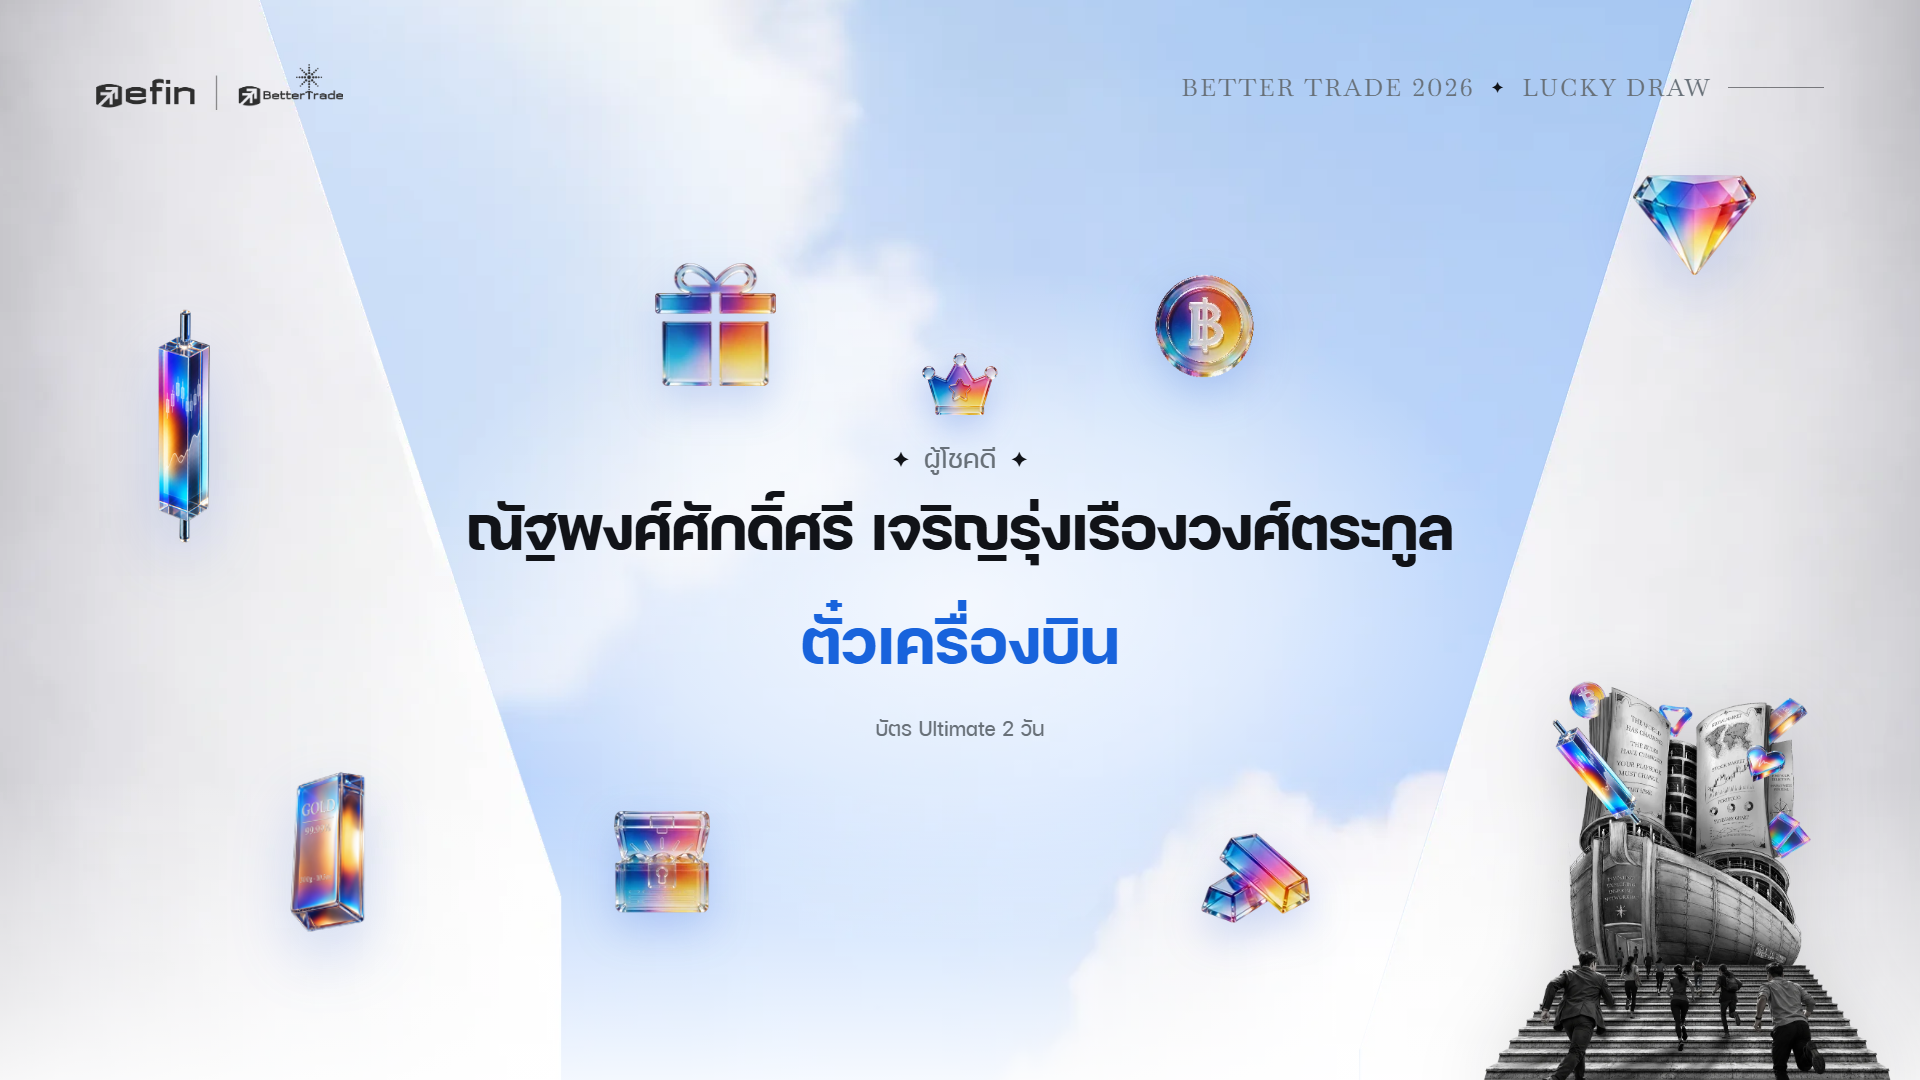
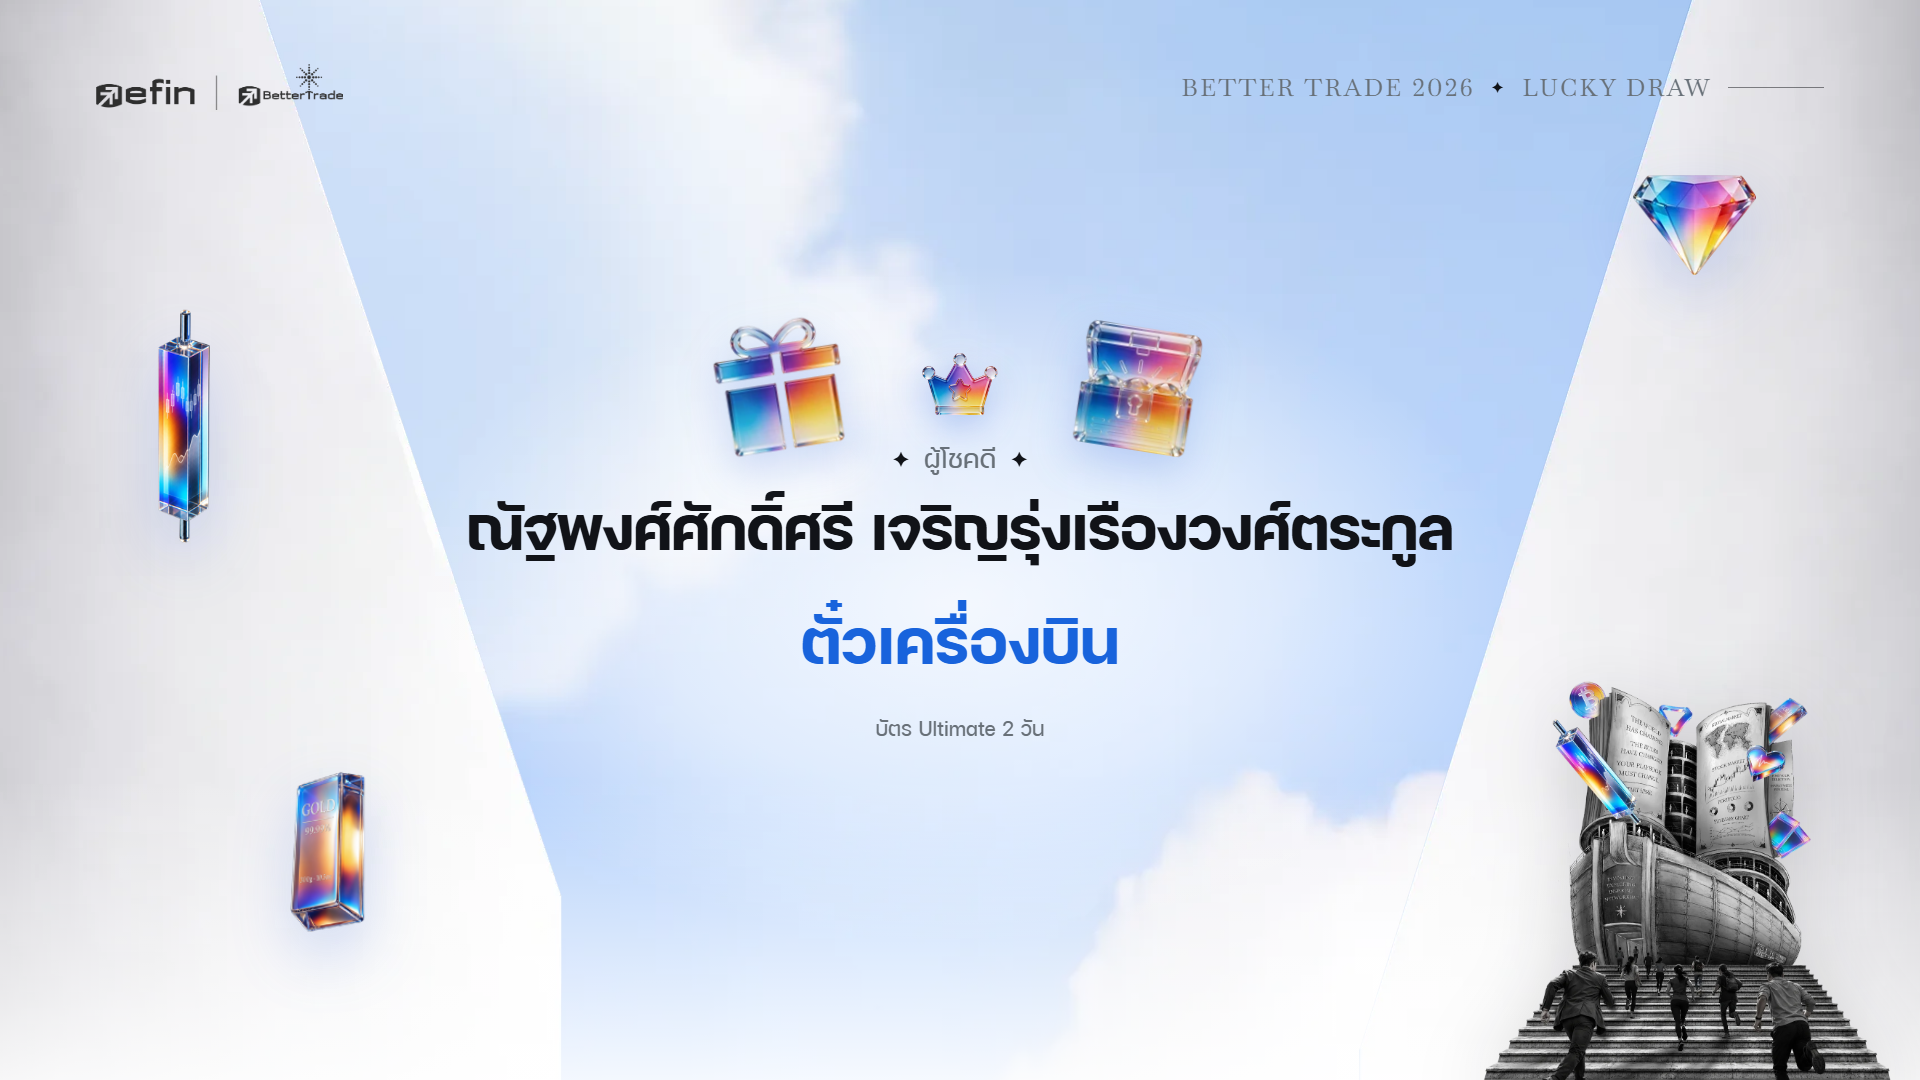
Recompose the reveal scene decorations
- Remove gold bars and coin from the winner scene
- Gift and chest now hang off the crown as a mirrored, tilted pair so they follow it when a long name resizes the block
- Regenerate previews

diff --git a/show-screen.html b/show-screen.html
@@ -119,10 +119,13 @@
   /* reveal */
   .drop{position:absolute;opacity:0;transform:scale(.4) translateY(36px);
     transition:opacity .6s ease calc(var(--d) * 1s),transform .9s cubic-bezier(.2,1.3,.3,1) calc(var(--d) * 1s)}
-  .scene.on .drop{opacity:1;transform:none}
+  .scene.on .drop{opacity:1;transform:rotate(var(--r,0deg))}
   .drop img{display:block;width:100%;filter:drop-shadow(0 16px 20px rgba(63,111,224,.25));animation:bob 5.5s ease-in-out infinite;animation-delay:calc(var(--d) * -4s)}
   /* reveal: one centred column, no character card */
   .who{width:1400px;display:flex;flex-direction:column;align-items:center;text-align:center}
+  .crownrow{position:relative;width:92px;height:92px}
+  .crownrow .drop.l{right:calc(100% + 56px);top:-30px;width:156px}
+  .crownrow .drop.r{left:calc(100% + 56px);top:-24px;width:150px}
   .who .crown{width:92px;height:92px;display:block;filter:drop-shadow(0 10px 16px rgba(63,111,224,.3))}
   .lucky{margin-top:10px;font-size:36px;color:var(--ink-2);display:flex;align-items:center;gap:14px}
   .lucky i{font-style:normal;font-size:22px;color:var(--ink)}
@@ -237,12 +240,13 @@
   </section>
 
   <section class="scene reveal" data-scene="reveal">
-    <span class="drop" style="left:640px;top:250px;width:150px;--d:.5"><img src="prize-assets/img/gift.webp" alt=""></span>
-    <span class="drop" style="left:1140px;top:262px;width:128px;--d:.65"><img src="prize-assets/img/coin.webp" alt=""></span>
-    <span class="drop" style="left:600px;top:800px;width:124px;--d:.8"><img src="prize-assets/img/chest.webp" alt=""></span>
-    <span class="drop" style="left:1190px;top:812px;width:132px;--d:.95"><img src="prize-assets/img/gold-bars.webp" alt=""></span>
     <div class="who">
-      <img class="crown" src="prize-assets/img/ICON_CROWN_PNG.png" alt="">
+      <!-- gift and chest hang off the crown as a mirrored pair, so they move with it when a long name resizes the block -->
+      <div class="crownrow">
+        <span class="drop l" style="--d:.5;--r:-9deg"><img src="prize-assets/img/gift.webp" alt=""></span>
+        <img class="crown" src="prize-assets/img/ICON_CROWN_PNG.png" alt="">
+        <span class="drop r" style="--d:.7;--r:9deg"><img src="prize-assets/img/chest.webp" alt=""></span>
+      </div>
       <div class="lucky"><i>✦</i>ผู้โชคดี<i>✦</i></div>
       <h1 id="wName"></h1>
       <div class="pline" id="wLine"></div>
